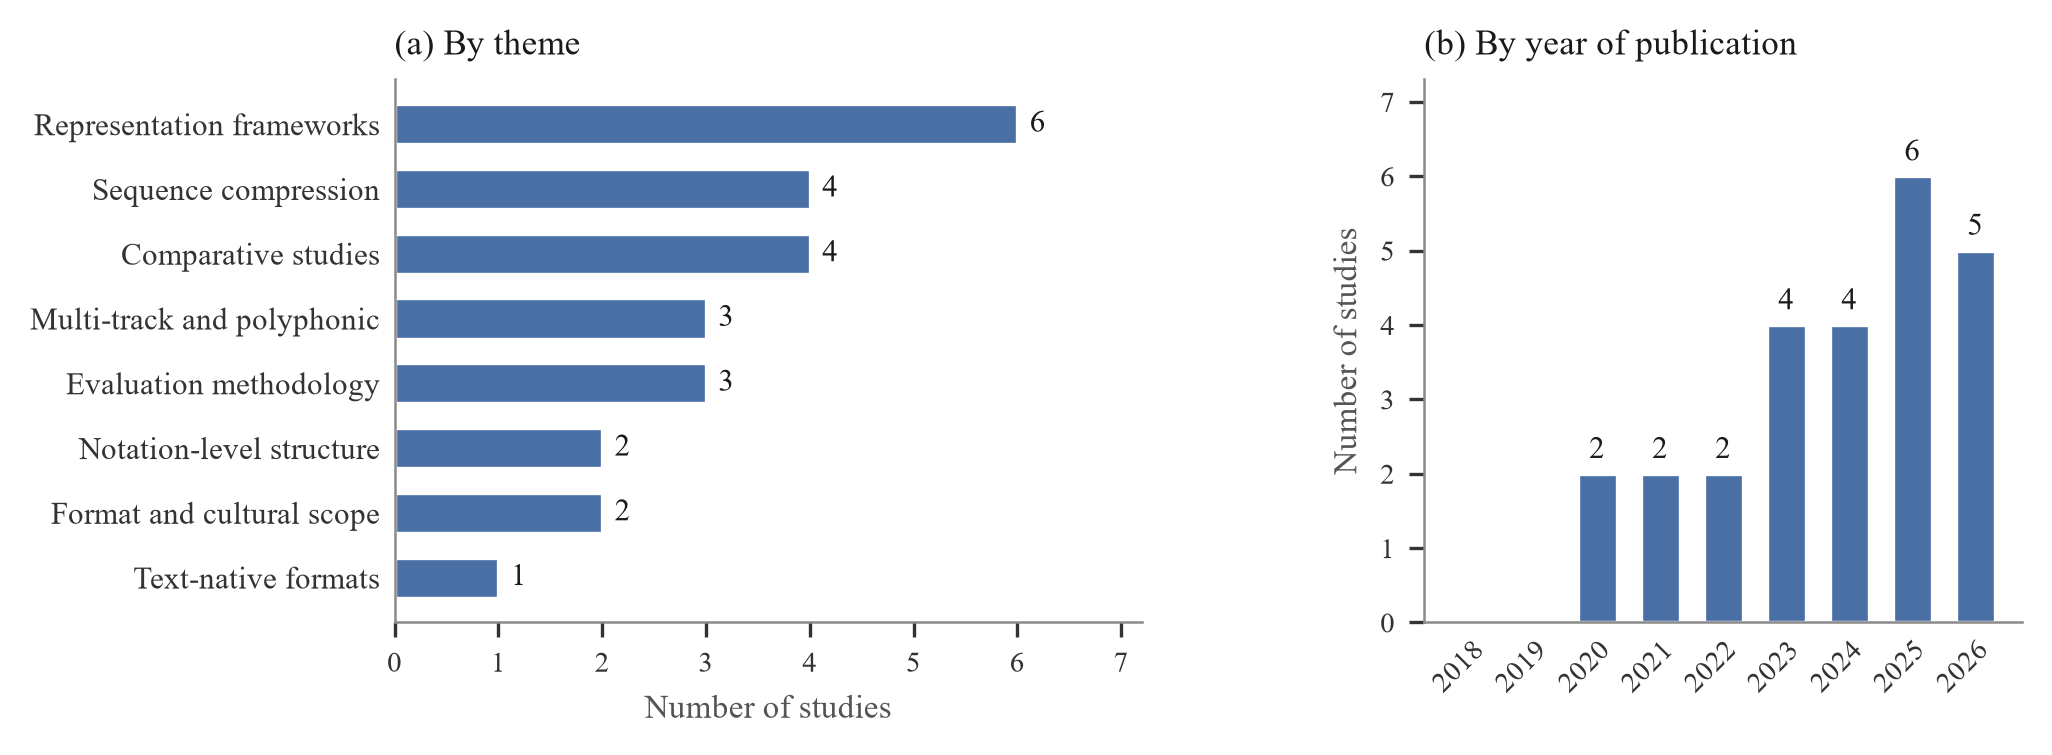
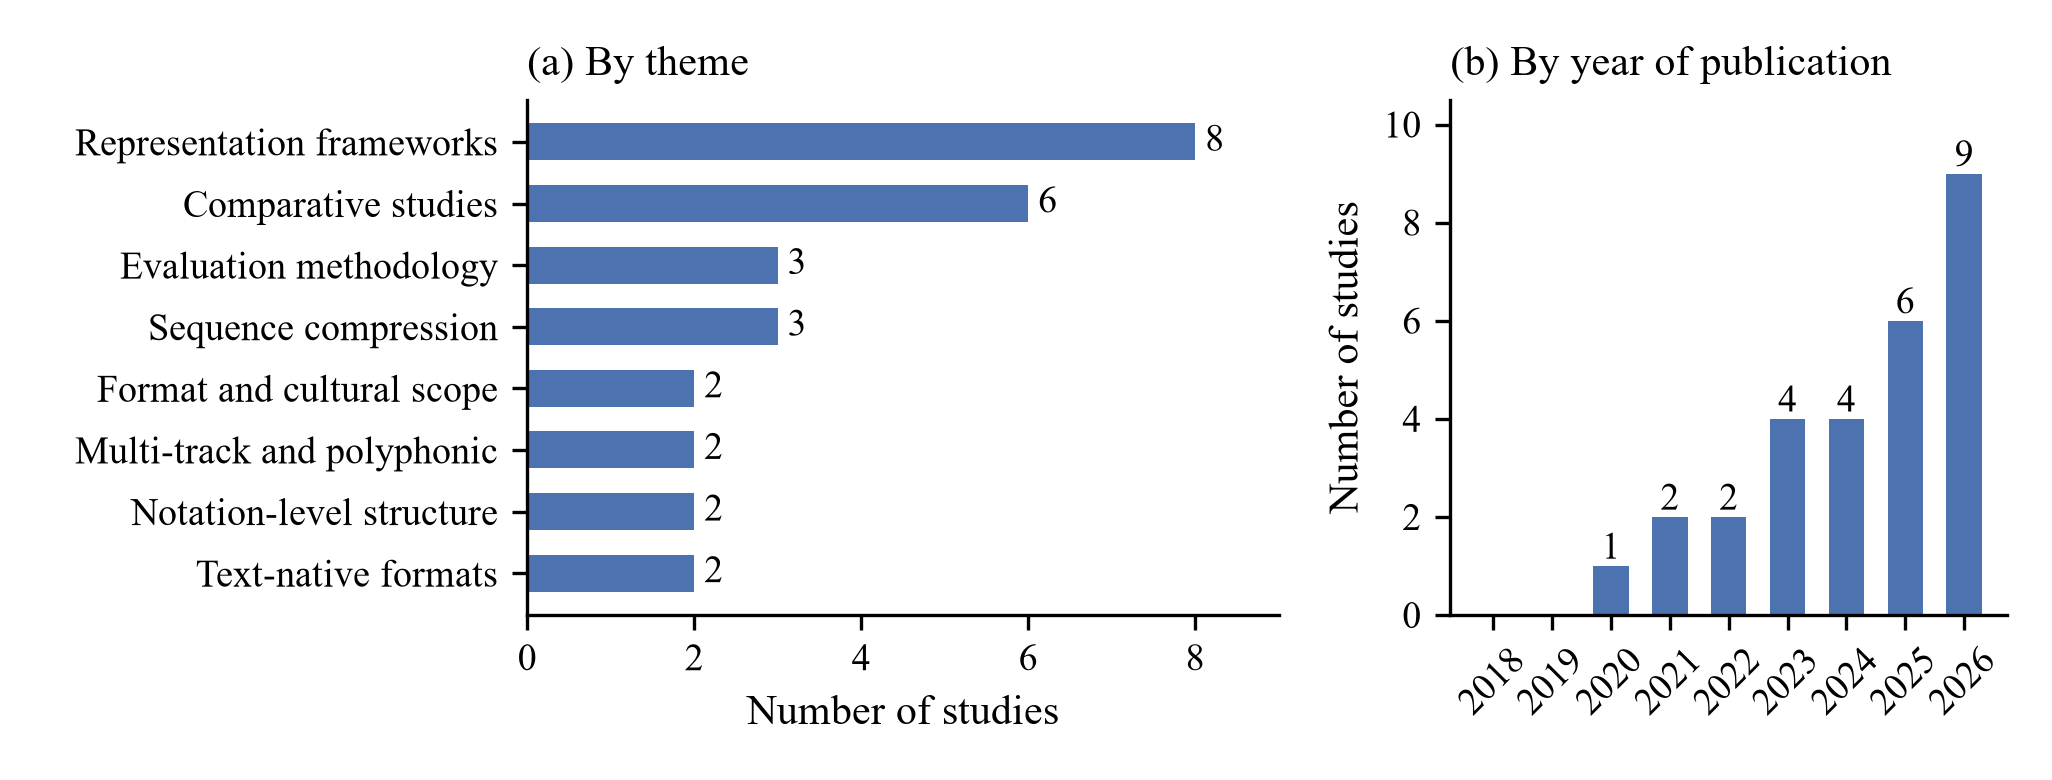
new figs

diff --git a/tools/make_figures.py b/tools/make_figures.py
@@ -1,0 +1,214 @@
+"""Regenerate Fig. 1 (PRISMA 2020 flow) and Fig. 2 (included studies by theme and year).
+
+    python tools/make_figures.py
+
+Fig. 2 is computed, not typed: themes come from the "INCLUDED STUDIES" table in
+screening-log.md and years from the reference list of CANTUS-Research-Paper-revised.md.
+Fig. 1 uses the PRISMA counts from screening-log.md (kept here as constants; the script
+checks that they add up). Output: figures/fig1.png, figures/fig2.png (300 dpi), and a copy
+of each at the repository root, where the earlier figure files live.
+"""
+import re
+import shutil
+from collections import Counter
+from pathlib import Path
+
+import matplotlib
+
+matplotlib.use("Agg")
+import matplotlib.pyplot as plt
+from matplotlib.patches import FancyArrowPatch, FancyBboxPatch
+
+ROOT = Path(__file__).resolve().parent.parent
+OUT = ROOT / "figures"
+DPI = 300
+
+plt.rcParams.update({
+    "font.family": "serif",
+    "font.serif": ["Times New Roman", "Times", "DejaVu Serif"],
+    "font.size": 10,
+})
+
+BLUE = "#4C72B0"      # bar colour used in the original Fig. 2
+EDGE = "#555555"
+FILL = "#F2F2F2"      # box fill used in Fig. 3
+PHASE = "#DCE6F2"
+NAVY = "#2F5597"
+
+
+# ---------------------------------------------------------------- data
+def included_studies():
+    """[(ref, theme)] from the INCLUDED STUDIES table in screening-log.md."""
+    log = (ROOT / "screening-log.md").read_text(encoding="utf-8")
+    section = log.split("## INCLUDED STUDIES", 1)[1].split("\n## ", 1)[0]
+    rows = re.findall(r"^\| \[(\d+)\] \|[^|]+\|[^|]+\| ([^|]+?) \|$", section, re.M)
+    return [(int(ref), theme) for ref, theme in rows]
+
+
+def reference_years():
+    """{ref: year} from the paper's reference list (year of the cited version)."""
+    paper = (ROOT / "CANTUS-Research-Paper-revised.md").read_text(encoding="utf-8")
+    refs = paper.split("## REFERENCES", 1)[1]
+    years = {}
+    for m in re.finditer(r"^\[(\d+)\] (.+)$", refs, re.M):
+        # a year not inside an arXiv ID, DOI or page range
+        found = re.findall(r"(?<![\d.:/])((?:19|20)\d\d)(?![\d]|\.\d)", m.group(2))
+        if found:
+            years[int(m.group(1))] = int(found[-1])
+    return years
+
+
+# ---------------------------------------------------------------- Fig. 1
+PRISMA = {
+    "sources": [("IEEE Xplore", 27), ("ACM Digital Library", 50), ("arXiv", 81),
+                ("ISMIR Proceedings Archive", 23)],
+    "duplicates": 13,
+    "screen_excluded": [("Front matter", 2), ("Outside topic scope", 16)],
+    "fulltext_excluded": [
+        ("Audio-only, no symbolic intermediate", 14),
+        ("Non-generative, or applies an existing\nrepresentation without proposing,\ncomparing or evaluating one", 88),
+        ("Secondary review", 8),
+        ("Superseded version", 7),
+        ("Excluded on re-applying final criteria", 2),
+        ("First excluded on date; off-topic\non re-screening", 3),
+    ],
+    "included": 28,
+}
+
+
+def fig1(path):
+    p = PRISMA
+    identified = sum(n for _, n in p["sources"])
+    screened = identified - p["duplicates"]
+    fulltext = screened - sum(n for _, n in p["screen_excluded"])
+    excluded = sum(n for _, n in p["fulltext_excluded"])
+    assert (identified, screened, fulltext, fulltext - excluded) == (181, 168, 150, p["included"]), \
+        "PRISMA counts do not add up"
+
+    W, H = 7.0, 5.75
+    fig = plt.figure(figsize=(W, H))
+    ax = fig.add_axes([0, 0, 1, 1])
+    ax.set_xlim(0, W)
+    ax.set_ylim(0, H)
+    ax.invert_yaxis()
+    ax.axis("off")
+
+    def box(x, y, w, h, lines, fill=FILL, edge=EDGE, lw=1.0, bold_first=True, align="left", size=9.5):
+        ax.add_patch(FancyBboxPatch((x, y), w, h, boxstyle="round,pad=0,rounding_size=0.06",
+                                    fc=fill, ec=edge, lw=lw))
+        tx = x + 0.12 if align == "left" else x + w / 2
+        # first line bold, the rest regular, stacked from the vertical centre
+        lh = size / 72 * 1.28
+        n = sum(l.count("\n") + 1 for l in lines)
+        ty = y + h / 2 - n * lh / 2 + lh / 2
+        for i, l in enumerate(lines):
+            k = l.count("\n") + 1
+            ax.text(tx, ty + (k - 1) * lh / 2, l, ha=align, va="center", fontsize=size,
+                    fontweight="bold" if (i == 0 and bold_first) else "normal", linespacing=1.28)
+            ty += k * lh
+
+    def arrow(x1, y1, x2, y2):
+        ax.add_patch(FancyArrowPatch((x1, y1), (x2, y2), arrowstyle="-|>", mutation_scale=11,
+                                     lw=1.0, color=EDGE, shrinkA=0, shrinkB=0))
+
+    def phase(y, h, label):
+        ax.add_patch(FancyBboxPatch((0.1, y), 0.34, h, boxstyle="round,pad=0,rounding_size=0.06",
+                                    fc=PHASE, ec=NAVY, lw=0.8))
+        ax.text(0.27, y + h / 2, label, rotation=90, ha="center", va="center",
+                fontsize=10, fontweight="bold", color=NAVY)
+
+    LX, LW = 0.6, 2.95          # main column
+    RX, RW = 3.95, 2.95         # side column
+    ind = "   "
+
+    # Identification
+    y1, h1 = 0.15, 1.35
+    box(LX, y1, LW, h1, [f"Records identified from databases (n = {identified})"]
+        + [f"{ind}{s} (n = {n})" for s, n in p["sources"]] + [f"All {identified} records retrieved"])
+    box(RX, y1 + 0.35, RW, 0.65, ["Records removed before screening",
+                                  f"{ind}Duplicate records (n = {p['duplicates']})"])
+    arrow(LX + LW, y1 + h1 / 2, RX, y1 + h1 / 2)
+
+    # Screening
+    y2, h2 = y1 + h1 + 0.35, 0.45
+    box(LX, y2, LW, h2, [f"Records screened (n = {screened})"])
+    arrow(LX + LW / 2, y1 + h1, LX + LW / 2, y2)
+    ye, he = y2 - 0.15, 0.75
+    box(RX, ye, RW, he, [f"Records excluded (n = {screened - fulltext})"]
+        + [f"{ind}{s} (n = {n})" for s, n in p["screen_excluded"]])
+    arrow(LX + LW, y2 + h2 / 2, RX, y2 + h2 / 2)
+
+    y3, h3 = ye + he + 0.45, 0.45
+    box(LX, y3, LW, h3, [f"Full-text reports assessed (n = {fulltext})"])
+    arrow(LX + LW / 2, y2 + h2, LX + LW / 2, y3)
+    yx, hx = y3 - 0.2, 1.85
+    box(RX, yx, RW, hx, [f"Reports excluded (n = {excluded})"]
+        + [f"{ind}{s.replace(chr(10), chr(10) + ind)} (n = {n})" for s, n in p["fulltext_excluded"]], size=9)
+    arrow(LX + LW, y3 + h3 / 2, RX, y3 + h3 / 2)
+
+    # Included
+    y4, h4 = yx + hx + 0.3, 0.75
+    box(LX, y4, LW, h4, [f"Studies included in review (n = {p['included']})"], fill=PHASE, edge=NAVY, lw=1.4)
+    ax.plot([LX + LW / 2] * 2, [y3 + h3, y4 - 0.02], color=EDGE, lw=1.0)
+    arrow(LX + LW / 2, y4 - 0.3, LX + LW / 2, y4)
+
+    phase(y1, h1, "Identification")
+    phase(y2 - 0.15, y4 - 0.2 - (y2 - 0.15), "Screening")
+    phase(y4, h4, "Included")
+
+    assert y4 + h4 < H - 0.05, "figure too short"
+    fig.savefig(path, dpi=DPI)
+    plt.close(fig)
+
+
+# ---------------------------------------------------------------- Fig. 2
+def fig2(path):
+    studies = included_studies()
+    years = reference_years()
+    assert len(studies) == PRISMA["included"], f"expected {PRISMA['included']} studies, found {len(studies)}"
+    missing = [r for r, _ in studies if r not in years]
+    assert not missing, f"no year found for {missing}"
+
+    by_theme = Counter(t for _, t in studies)
+    by_year = Counter(years[r] for r, _ in studies)
+    span = list(range(2018, 2027))
+
+    fig, (a, b) = plt.subplots(1, 2, figsize=(6.84, 2.6), gridspec_kw={"width_ratios": [1.35, 1]})
+    themes = sorted(by_theme, key=lambda t: (-by_theme[t], t))
+    vals = [by_theme[t] for t in themes]
+    a.barh(themes, vals, color=BLUE, height=0.6)
+    a.invert_yaxis()
+    for i, v in enumerate(vals):
+        a.text(v + 0.12, i, str(v), va="center", fontsize=9)
+    a.set_xlim(0, max(vals) + 1)
+    a.set_xlabel("Number of studies")
+    a.set_title("(a) By theme", loc="left", fontsize=10)
+
+    yv = [by_year.get(y, 0) for y in span]
+    b.bar([str(y) for y in span], yv, color=BLUE, width=0.6)
+    for i, v in enumerate(yv):
+        if v:
+            b.text(i, v + 0.15, str(v), ha="center", fontsize=9)
+    b.set_ylim(0, max(yv) + 1.5)
+    b.set_ylabel("Number of studies")
+    b.tick_params(axis="x", rotation=45)
+    b.set_title("(b) By year of publication", loc="left", fontsize=10)
+
+    for axis in (a, b):
+        axis.spines[["top", "right"]].set_visible(False)
+        axis.tick_params(labelsize=9)
+    fig.tight_layout()
+    fig.savefig(path, dpi=DPI)
+    plt.close(fig)
+    return by_theme, by_year
+
+
+if __name__ == "__main__":
+    OUT.mkdir(exist_ok=True)
+    fig1(OUT / "fig1.png")
+    by_theme, by_year = fig2(OUT / "fig2.png")
+    for name in ("fig1.png", "fig2.png"):
+        shutil.copyfile(OUT / name, ROOT / name)
+    print("themes:", dict(sorted(by_theme.items(), key=lambda kv: -kv[1])), "total", sum(by_theme.values()))
+    print("years: ", dict(sorted(by_year.items())), "total", sum(by_year.values()))
+    print("wrote figures/fig1.png, figures/fig2.png (+ copies at repo root)")

diff --git a/CANTUS-REVISIONS.md b/CANTUS-REVISIONS.md
@@ -272,7 +272,7 @@ These were added during revision and are now numbered by first appearance. Metad
 - [x] Citation check: all 50 references verified, renumbered, 14 metadata fixes (`CANTUS-Citation-Report.md`)
 - [x] Search for leftover "resolved", "arbitrary" or "no representation" wording (only the narrowed G2 claim remains, as intended)
 - [x] Table II Quality/Licence columns: dropped by decision (E5)
-- [ ] In the docx: paste Figures 1–3 above their captions, and update Fig. 1 to 181 → 181 → 168 → 150 → 28
-- [ ] **Regenerate Fig. 2** (`fig2.png`, studies by theme and year): it still shows the old 25-study set, since its bars sum to 25, not 28
+- [x] Regenerate Fig. 1 (PRISMA 2020 flow, 181 → 168 → 150 → 28) and Fig. 2 (28 studies by theme and year): `python tools/make_figures.py` writes `figures/fig1.png` and `figures/fig2.png`
+- [ ] In the docx: paste Figures 1–3 above their captions
 - [ ] Optional: re-run the six ISMIR queries for 2026 records (no ISMIR export was saved)
 - [ ] Optional, not agreed: §VI-B gives Tier 1 "annotation confidence 1.0", slightly at odds with the editorial WTC labels. Possible wording: "1.0 where voices are composer-given or hand-verified".
